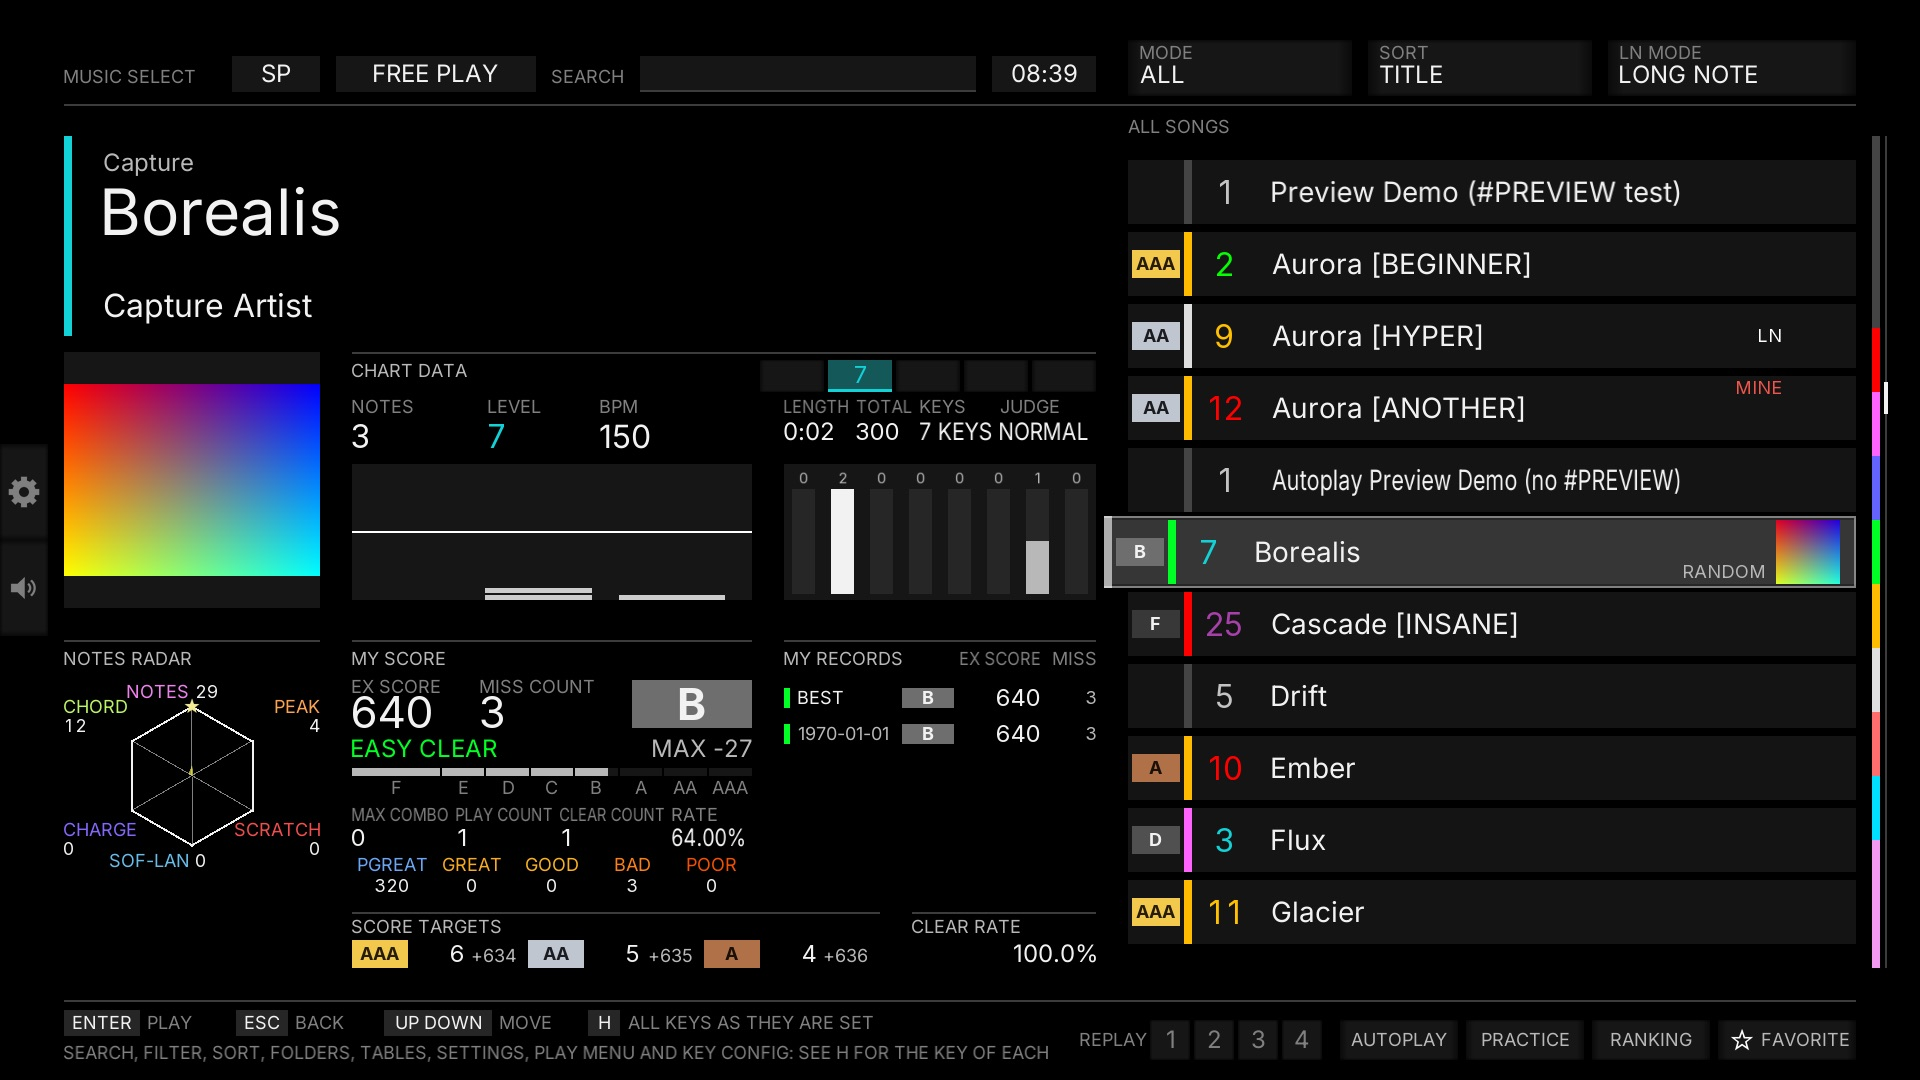
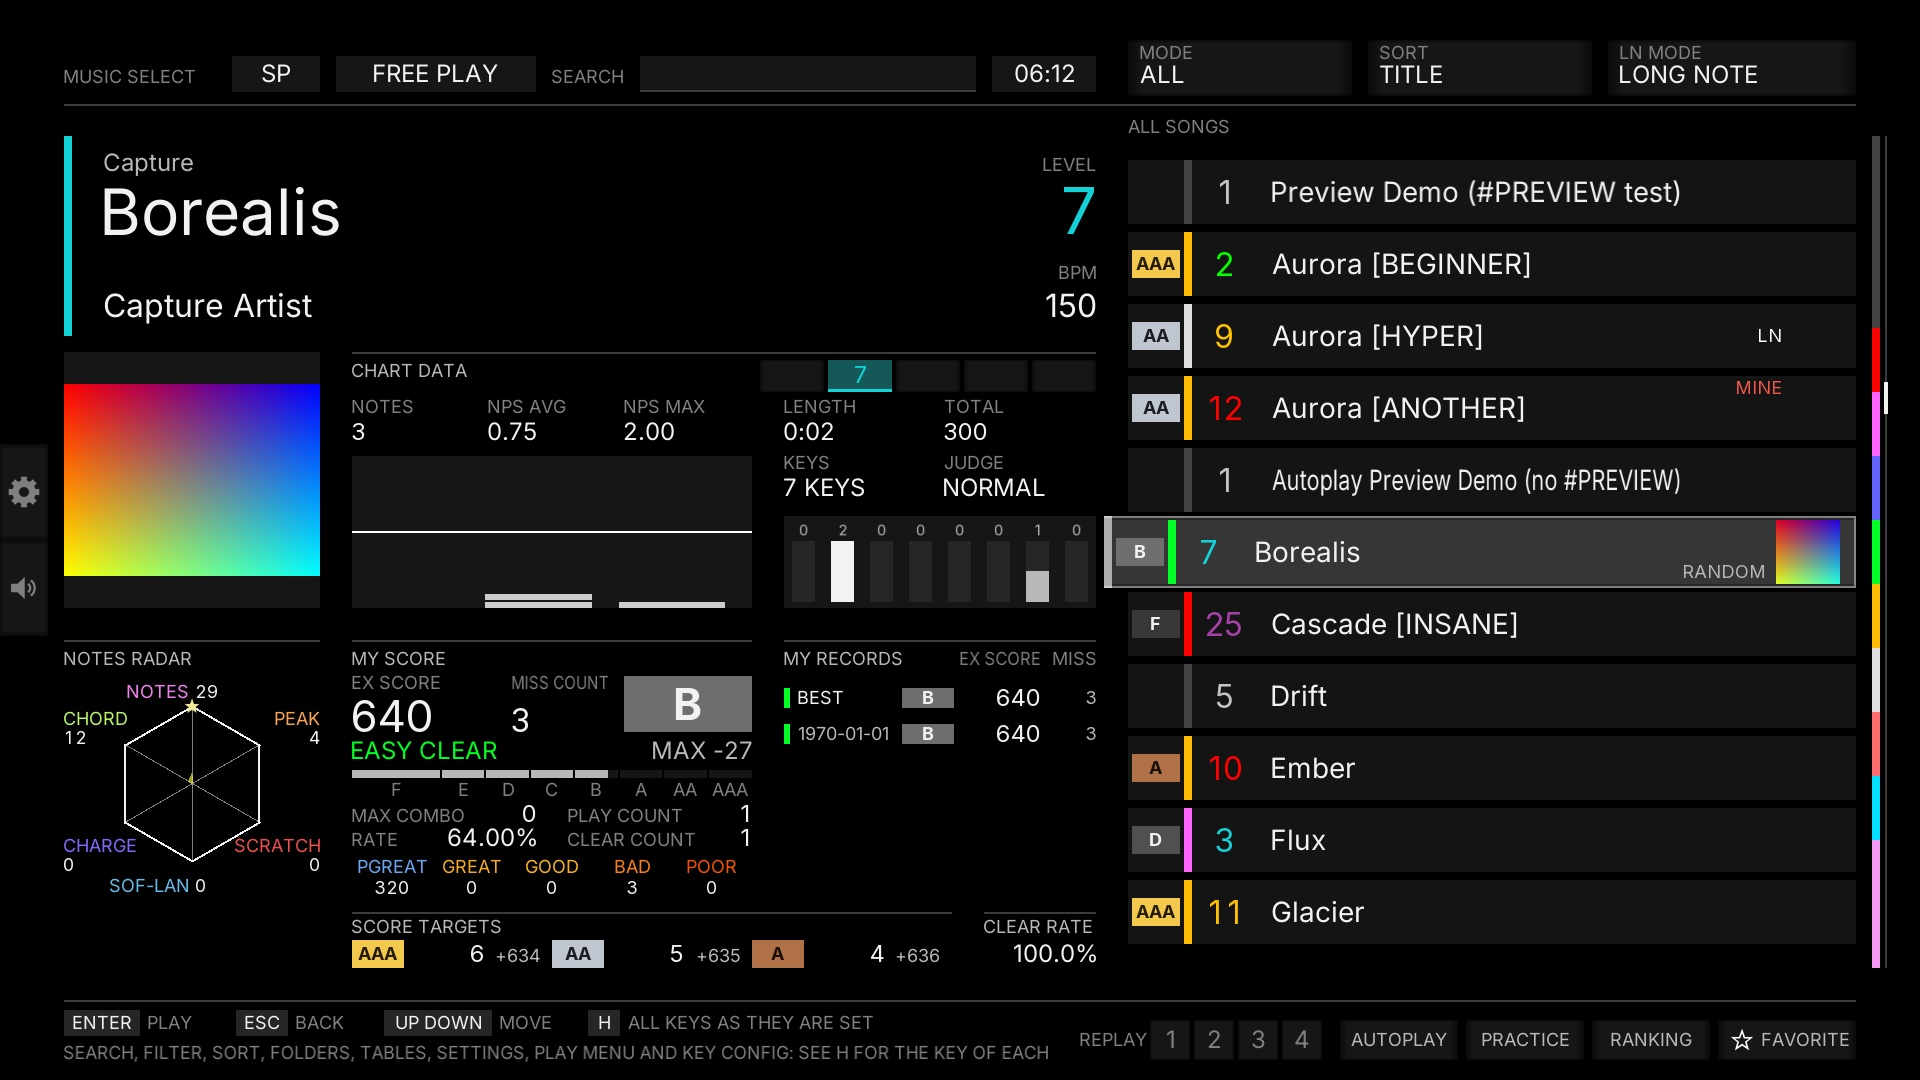
docs: README 선곡 캡처를 새 정보창으로, 배치 지정·재생 속도·NPS 기능과 Y 키 추가

diff --git a/README.md b/README.md
@@ -16,17 +16,17 @@ R-BMS reimplements the play loop of a GPL-3.0 reference implementation (beatoraj
 
 ## Features
 
-- **Play** — 5K / 7K / 9K (pop'n) / 10K / 14K, LN / CN / HCN, mines, BGA, MIRROR / RANDOM / S-RANDOM and friends, hi-speed with green number and KEEP GREEN NUMBER, lane cover, lift, HIDDEN+, SCRATCH AUTO
+- **Play** — 5K / 7K / 9K (pop'n) / 10K / 14K, LN / CN / HCN, mines, BGA, MIRROR / RANDOM / S-RANDOM and friends, hi-speed with green number and KEEP GREEN NUMBER, lane cover, lift, HIDDEN+, SCRATCH AUTO, playback rate 50–200% (runs off 100% are not recorded)
 - **Judgment** — reference windows per mode, `#RANK` / `#DEFEXRANK`, FAST / SLOW, judge offset with AUTO ADJUST, LR2-style key and pad debounce
 - **Gauges and lamps** — ASSIST EASY to HAZARD with TOTAL scaling, clear lamps with ASSIST grades for SCRATCH AUTO clears, DJ LEVEL and EX score
 - **Difficulty tables** — the 発狂BMS難易度表 built in, Stella and Satellite fetched from their origin, nested folders, charts you don't own shown dimmed with a link to their download
 - **Courses** — GENOSIDE 2018 dan courses (SP and DP) built in, table courses, a course gauge you choose (LR2 / beatoraja / IIDX), dans awarded on the website
-- **Song select** — an IIDX-style list with grade badges and thumbnails, NOTES RADAR (NOTES, PEAK, SCRATCH, SOF-LAN, CHARGE, CHORD), your best and last five runs, score targets, and the IR ranking of a chart opened by holding a blue key
+- **Song select** — an IIDX-style list with grade badges and thumbnails, notes per second (average and peak), NOTES RADAR (NOTES, PEAK, SCRATCH, SOF-LAN, CHARGE, CHORD), your best and last five runs, score targets, and the IR ranking of a chart opened by holding a blue key
 - **Skins** — a monochrome default skin for every screen, beatoraja `.luaskin` and JSON skins unmodified, a live SKIN menu with colours, opacities and offsets, export of an adjusted pack
 - **Languages** — the whole player in English, Korean and Japanese, picked from your system or in Settings
 - **Online** — sign in, every run you play by hand kept and sent, rankings, rivals, ghosts, replays, settings sync, folders made on the site, AI reports
 - **Discord** — shows R-BMS, the chart and the course you are on in your Discord status (can be turned off)
-- **Replays and practice** — every run replayable with its seed and options, play a replay's lane layout yourself with it as your ghost, analysis with seek and per-note timing, a practice panel for slices
+- **Replays and practice** — every run replayable with its seed and options, play a replay's lane layout yourself with it as your ghost, pick a lane layout by hand and preview its notes before playing it (kept as a RANDOM run), analysis with seek and per-note timing, a practice panel for slices
 
 ![R-BMS — the default play skin](docs/assets/screenshot-play.jpg)
 
@@ -51,6 +51,7 @@ Press `H` on the song select for every key as it is set right now. All keys are 
 | START (`A`) / SELECT (`W`) held | Option panels | With the turntable or keys: lane cover, lift, hi-speed |
 | Blue key held (keys 2 4 6, `S` `D` on the keyboard) | IR ranking of the chart | — |
 | `J` | Play the layout of a record or ranking row | Watching a replay: play its layout |
+| `Y` | Pick a lane layout, preview it and play it | — |
 | `Tab` | Settings (LANGUAGE is the first row of DISPLAY) | — |
 | `F8` / `F12` / `F5` | Play menu / skin menu / key config | — |
 | `O` / `T` / `R` / `/` | Song folders / difficulty tables / records / search | — |
